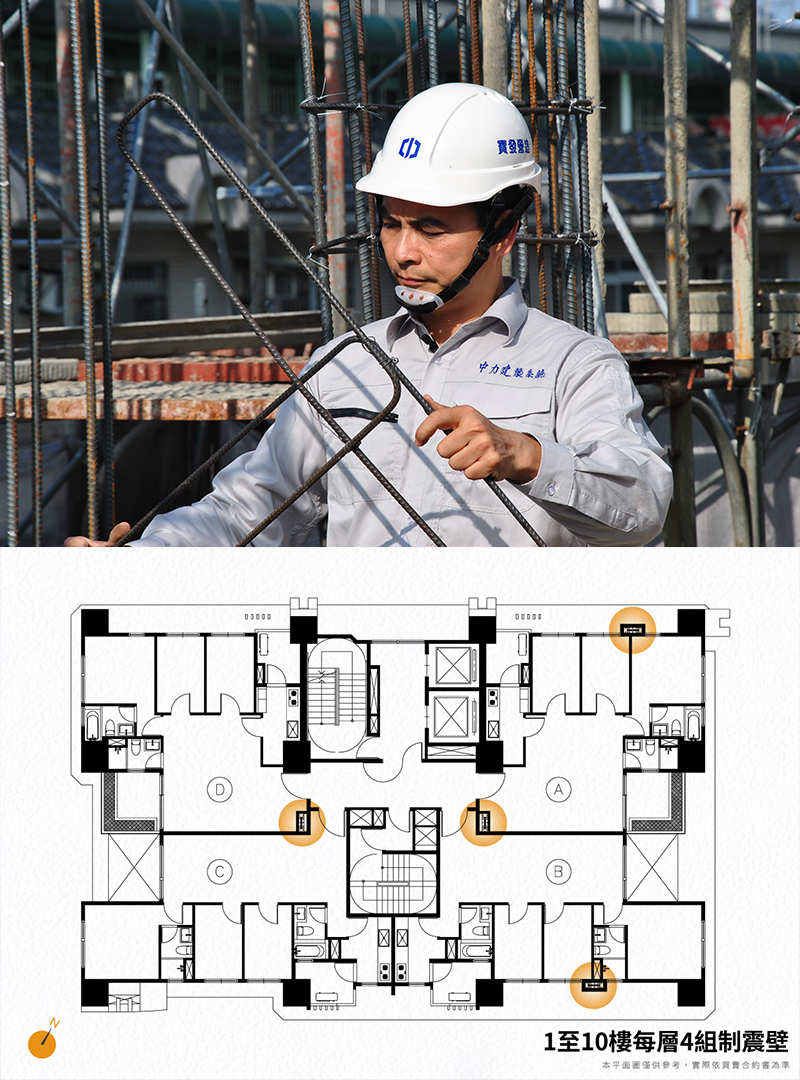
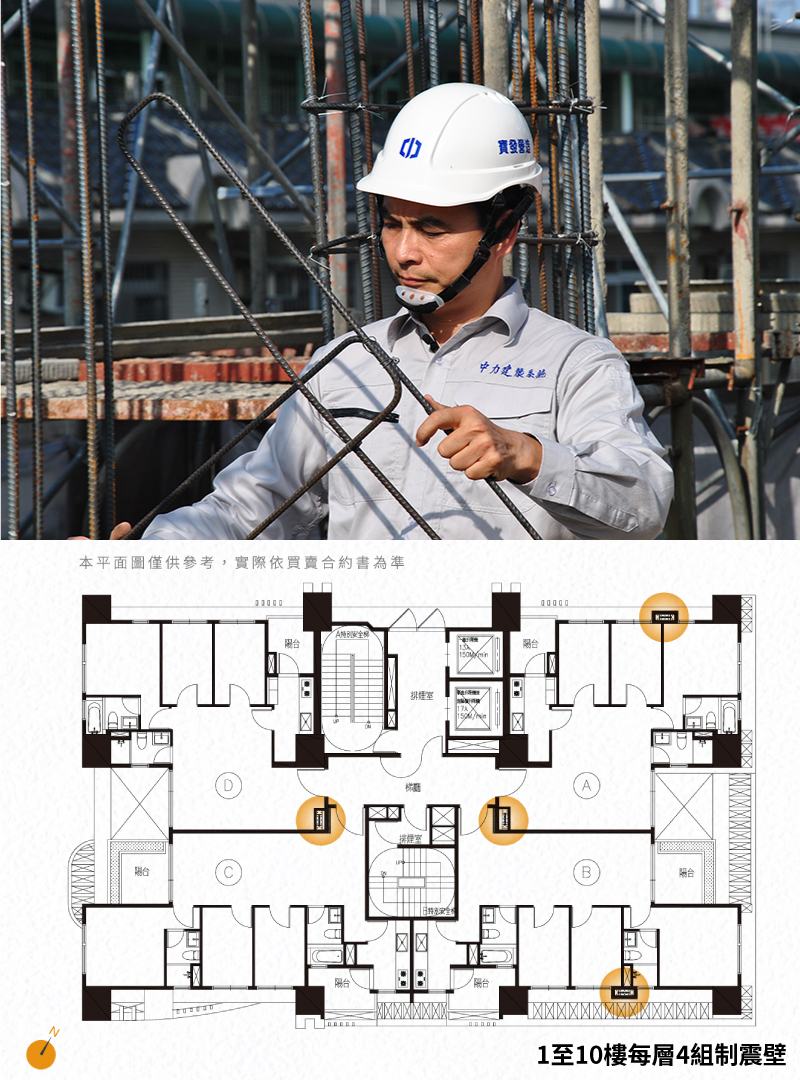
修改

diff --git a/src/section/s10.vue b/src/section/s10.vue
@@ -236,11 +236,7 @@ const imgs = ref([
     caption: '建築外觀手稿示意圖'
   },
   {
-    img: globals.$isMobile() ? new URL("../section/s10/2_m.jpg", import.meta.url).href : new URL("../section/s10/2.jpg", import.meta.url).href,
-    caption: '本平面圖僅供參考，實際以合約書內容為主。'
-  },
-  {
-    img: globals.$isMobile() ? new URL("../section/s10/3_m.jpg", import.meta.url).href : new URL("../section/s10/3.jpg", import.meta.url).href,
+    img: globals.$isMobile() ? new URL("../section/s10/4_m.jpg", import.meta.url).href : new URL("../section/s10/4.jpg", import.meta.url).href,
     caption: '本平面圖僅供參考，實際以合約書內容為主。'
   },
 ])
